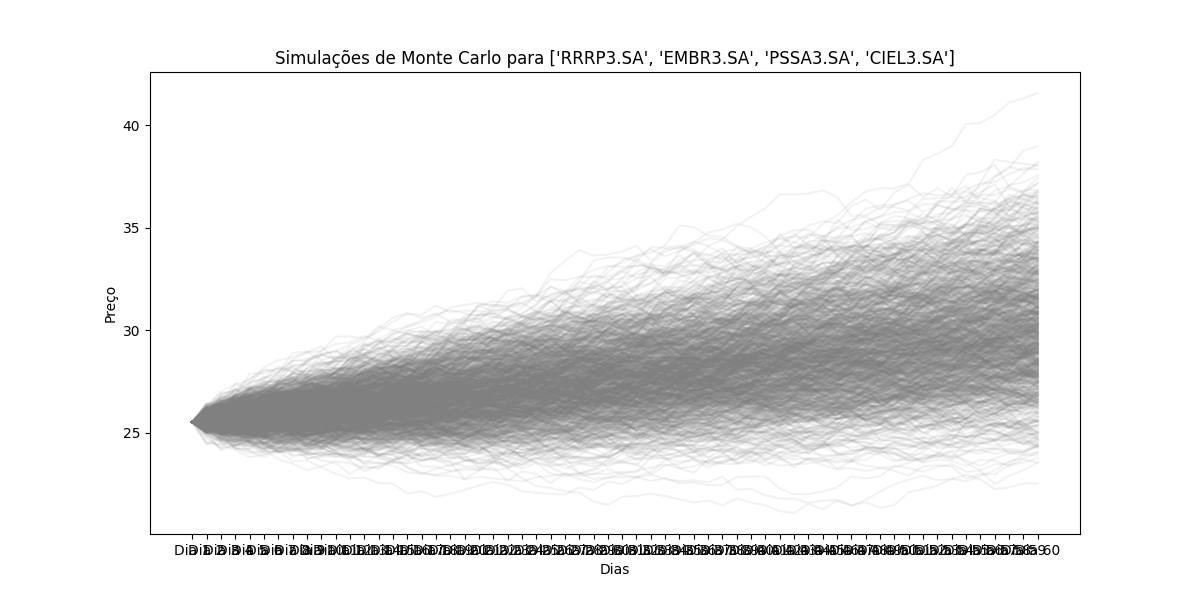
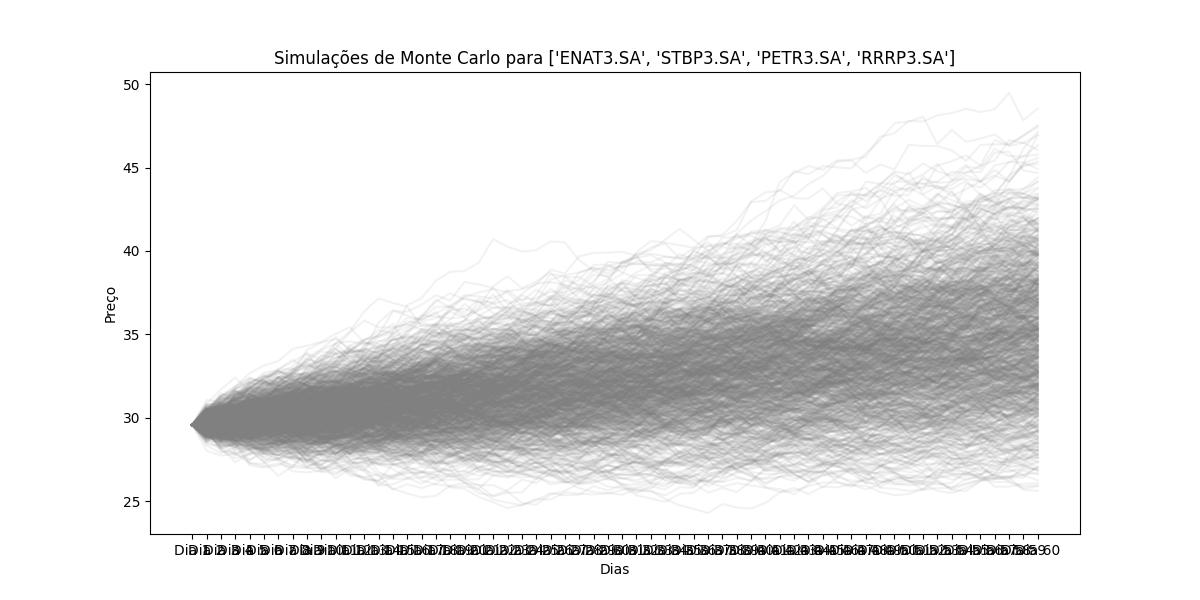
Inserido código de Backtesting gráfico

diff --git a/MonteCarloSimulationV2.py b/MonteCarloSimulationV2.py
@@ -1,0 +1,70 @@
+#!pip install yfinance
+
+import yfinance as yf
+import numpy as np
+import matplotlib.pyplot as plt
+import pandas as pd
+
+# Função para buscar dados históricos do yfinance
+def fetch_historical_data(ticker, inicio_dados, final_dados):
+    stock_data = yf.download(ticker, start=inicio_dados, end=final_dados)['Close'].mean(axis=1)
+    return stock_data
+
+# Função para prever futuras contagens usando o método de Monte Carlo
+def monte_carlo_prediction(prices, num_simulations=1000, num_days=90):
+    log_returns = np.log(1 + prices.pct_change())
+    mean_return = log_returns.mean()
+    std_return = log_returns.std()
+
+    simulations = []
+
+    for _ in range(num_simulations):
+        simulation_prices = []
+        last_price = prices.iloc[-1]
+
+        for _ in range(num_days):
+            next_price = last_price * np.exp(mean_return + std_return * np.random.normal())
+            simulation_prices.append(next_price)
+            last_price = next_price
+
+        simulations.append(simulation_prices)
+
+    return simulations
+
+def main(ticker, inicio_dados, final_dados):
+
+    # Buscar dados históricos
+    historical_prices = fetch_historical_data(ticker, inicio_dados, final_dados)
+
+    # Realizar previsões usando o método de Monte Carlo
+    num_simulations = 1000
+    num_days = 60
+    predicted_prices = monte_carlo_prediction(historical_prices, num_simulations, num_days)
+
+    # Plotar os dados históricos e as previsões
+    plt.figure(figsize=(14, 7))
+    plt.plot(historical_prices.index, historical_prices, label='Histórico de Preços')
+
+    # Adicionar previsões ao gráfico
+    last_date = historical_prices.index[-1]
+    future_dates = pd.date_range(start=last_date, periods=num_days+1, inclusive='right')
+
+    for simulation in predicted_prices:
+        plt.plot(future_dates, simulation, color='red', alpha=0.01)
+
+    plt.title(f"Simulação de Monte Carlo para {ticker} - Próximos {num_days} dias")
+    plt.xlabel("Data")
+    plt.ylabel("Preço de Fechamento")
+    plt.legend()
+    plt.show()
+    
+if __name__ == "__main__":
+    
+    # Configurações iniciais
+    ticker = ['EMBR3.SA', 'PETR4.SA']  # Substitua pelo ticker desejado
+    inicio_dados = '2024-01-01'
+    final_dados = '2024-05-01'
+    main(ticker, inicio_dados, final_dados)
+    
+    
+    

diff --git a/backtesting_grafico.py b/backtesting_grafico.py
@@ -1,0 +1,67 @@
+import pandas as pd
+import yfinance as yf
+import plotly.graph_objs as go
+from plotly.subplots import make_subplots
+
+# Função para obter dados históricos de preços
+def get_stock_data(ticker, start, end):
+    data = yf.download(ticker, start=start, end=end)
+    return data
+
+# Função para calcular médias móveis
+def calculate_moving_averages(data, short_window, long_window):
+    data['SMA_short'] = data['Close'].rolling(window=short_window, min_periods=1).mean()
+    data['SMA_long'] = data['Close'].rolling(window=long_window, min_periods=1).mean()
+    return data
+
+# Função para identificar tendências de alta
+def identify_uptrends(data):
+    data['Uptrend'] = data['SMA_short'] > data['SMA_long']
+    return data
+
+# Parâmetros do ativo e período
+#Ativos = ['CCRO3.SA', 'TECN3.SA', 'SCAR3.SA', 'ECOR3.SA']
+Ativos = ['SOMA3.SA', 'AZUL4.SA', 'LWSA3.SA', 'IGTI11.SA']
+ticker = Ativos[3]
+start_date = '2023-02-01'
+end_date = '2023-09-01'
+short_window = 9
+long_window = 21
+
+# Obter dados do ativo
+stock_data = get_stock_data(ticker, start_date, end_date)
+
+# Calcular médias móveis
+stock_data = calculate_moving_averages(stock_data, short_window, long_window)
+
+# Identificar tendências de alta
+stock_data = identify_uptrends(stock_data)
+
+# Criar gráfico dinâmico
+fig = make_subplots(rows=1, cols=1, shared_xaxes=True)
+
+# Adicionar trace para o preço de fechamento
+fig.add_trace(go.Scatter(x=stock_data.index, y=stock_data['Close'], mode='lines', name='Preço de Fechamento', line=dict(color='black')), row=1, col=1)
+
+# Adicionar trace para SMA de curto prazo
+fig.add_trace(go.Scatter(x=stock_data.index, y=stock_data['SMA_short'], mode='lines', name=f'SMA {short_window} Dias', line=dict(color='blue')), row=1, col=1)
+
+# Adicionar trace para SMA de longo prazo
+fig.add_trace(go.Scatter(x=stock_data.index, y=stock_data['SMA_long'], mode='lines', name=f'SMA {long_window} Dias', line=dict(color='red')), row=1, col=1)
+
+# Adicionar área sombreada para a tendência de alta
+fig.add_trace(go.Scatter(x=stock_data.index, y=stock_data['Close'], mode='lines', name='Tendência de Alta', line=dict(color='green', width=0), fill='tozeroy', fillcolor='rgba(0, 255, 0, 0.3)', showlegend=True, opacity=0.3), row=1, col=1)
+
+# Atualizar layout do gráfico
+fig.update_layout(
+    title=f'Tendência de Alta para {ticker}',
+    xaxis_title='Data',
+    yaxis_title='Preço',
+    legend_title='Legenda',
+    hovermode='x'
+)
+
+# Mostrar gráfico
+fig.show()
+
+

diff --git a/chamar_classe_monte_carlo_simulacao.py b/chamar_classe_monte_carlo_simulacao.py
@@ -2,28 +2,34 @@
 import lista_ativos_setores
 import carteira_aleatoria_otima_orientado_objeto
 import MonteCarloSimulationCarteiraOB
+import MonteCarloSimulationV2
 
-# Intervalo de dados e retorno acumulado desejando
-inicio_dados = '2024-01-01'
-final_dados = '2024-06-01'
-valor_desejado = 1.10
+def main(inicio_dados, final_dados, valor_desejado):
+    # Acessar a lista de ativos e escolher a carteira otimizada    
+    lista_ativos = lista_ativos_setores.lista_ibov
+    portfolio = carteira_aleatoria_otima_orientado_objeto.PortfolioOptimization(lista_ativos, inicio_dados, final_dados)
+    carteira_vencedora = portfolio.otimizar_carteira(valor_desejado)
 
-# Acessar a lista de ativos e escolher a carteira otimizada    
-lista_ativos = lista_ativos_setores.lista_atual_ibxx_02
-portfolio = carteira_aleatoria_otima_orientado_objeto.PortfolioOptimization(lista_ativos, inicio_dados, final_dados)
-carteira_vencedora = portfolio.otimizar_carteira(valor_desejado)
+    # Chamar as classes MonteCarloSimulation
+    ticker =  carteira_vencedora
+    num_simulacoes = 1000
+    num_dias = 60
+    MonteCarloSimulationCarteiraOB.main(ticker, num_simulacoes, num_dias, inicio_dados, final_dados)
+    MonteCarloSimulationV2.main(ticker, inicio_dados, final_dados)
 
-# Chamar a classe MonteCarloSimulationCarteiraOB
-ticker =  carteira_vencedora
-num_simulacoes = 1000
-num_dias = 60
-MonteCarloSimulationCarteiraOB.main(ticker, num_simulacoes, num_dias, inicio_dados, final_dados)
-# retorno_acumulado = portfolio.calcular_retorno_acumulado(carteira_vencedora[1])
-print(f"Carteira vencedora = {carteira_vencedora}")
-# print(f"Retorno Acumulado da Carteira: {retorno_acumulado}")
+    # retorno_acumulado = portfolio.calcular_retorno_acumulado(carteira_vencedora[1])
+    print(f"Carteira vencedora = {carteira_vencedora}")
+    # print(f"Retorno Acumulado da Carteira: {retorno_acumulado}")
 
-# Resultados da Predição:
-# Probabilidade do preço futuro estar acima do preço atual após 60 dias: 79.10%
-# Carteira vencedora: ['TEND3.SA', 'VIVA3.SA', 'SMFT3.SA', 'ECOR3.SA', 'BRKM5.SA', 'CYRE3.SA', 'BPAC11.SA', 'LREN3.SA', 'CSNA3.SA', 'BBDC3.SA']
-
+    # Resultados da Predição:
+    # Probabilidade do preço futuro estar acima do preço atual após 60 dias: 92.50%
+    # Carteira vencedora = ['ENAT3.SA', 'STBP3.SA', 'PETR3.SA', 'RRRP3.SA']
+    pass
+    
+if __name__ == "__main__":
+    # Intervalo de dados e retorno acumulado desejando
+    inicio_dados = '2023-02-05'
+    final_dados = '2023-06-05'
+    valor_desejado = 1.24
+    main(inicio_dados, final_dados, valor_desejado)
 

diff --git a/lista_ativos_setores.py b/lista_ativos_setores.py
@@ -5,8 +5,9 @@ import pandas as pd
 def main():
     
     # URL da página
-    url = 'https://www.dadosdemercado.com.br/b3/ibxx'
-    #url = 'https://www.dadosdemercado.com.br/acoes'
+    # url = 'https://www.dadosdemercado.com.br/b3/ibxx'
+    # url = 'https://www.dadosdemercado.com.br/acoes'
+    url = 'https://www.dadosdemercado.com.br/b3/ibov'
 
     # Faz a solicitação HTTP para obter o conteúdo da página
     response = requests.get(url)
@@ -26,7 +27,7 @@ def main():
         # Converte a tabela HTML para um DataFrame do pandas
         df = pd.read_html(first_table_html)[0]
         #lista_ativos = df['Código'].copy()
-        lista_ativos = df['Ticker'].copy()
+        lista_ativos = df['Código'].copy()
         lista_ativos = lista_ativos.to_list()
         # Exibe o DataFrame
         #print("Primeira Tabela:")
@@ -48,6 +49,20 @@ lista_atual_ibxx_02 = ['VALE3.SA', 'PETR4.SA', 'ITUB4.SA', 'PETR3.SA', 'BBAS3.SA
                     'SMTO3.SA', 'VAMO3.SA', 'CSMG3.SA', 'USIM5.SA', 'MRFG3.SA', 'AURE3.SA', 'GMAT3.SA', 'FLRY3.SA', 'SLCE3.SA', 'YDUQ3.SA',
                     'COGN3.SA', 'RAIZ4.SA', 'ARZZ3.SA', 'AZUL4.SA', 'SOMA3.SA', 'DIRR3.SA', 'VIVA3.SA', 'IRBR3.SA', 'MRVE3.SA', 'ECOR3.SA',
                     'DXCO3.SA', 'LWSA3.SA', 'BEEF3.SA', 'ALPA4.SA', 'TEND3.SA', 'EZTC3.SA', 'PETZ3.SA', 'PCAR3.SA', 'CVCB3.SA', 'MOVI3.SA']
+
+
+lista_ibxl = ['VALE3.SA', 'PETR4.SA', 'ITUB4.SA', 'PETR3.SA', 'BBAS3.SA', 'ELET3.SA', 'BBDC4.SA', 'B3SA3.SA', 'WEGE3.SA', 'ITSA4.SA', 'ABEV3.SA', 'BPAC11.SA', 'RENT3.SA', 'EQTL3.SA', 'JBSS3.SA', 'RADL3.SA', 'SUZB3.SA', 'PRIO3.SA', 'RDOR3.SA', 'EMBR3.SA', 'SBSP3.SA', 'RAIL3.SA', 'UGPA3.SA', 'VBBR3.SA', 'BBSE3.SA', 'GGBR4.SA', 'CMIG4.SA', 'HAPV3.SA', 'ASAI3.SA', 'KLBN11.SA', 'CPLE6.SA', 'BRFS3.SA', 'CSAN3.SA', 'TOTS3.SA', 'TIMS3.SA', 'NTCO3.SA', 'LREN3.SA', 'HYPE3.SA', 'CSNA3.SA', 'RRRP3.SA', 'CIEL3.SA', 'MULT3.SA', 'CYRE3.SA', 'MGLU3.SA', 'USIM5.SA', 'ARZZ3.SA', 'AZUL4.SA', 'SOMA3.SA', 'MRVE3.SA']
+
+lista_ibov = ['VALE3.SA', 'PETR4.SA', 'ITUB4.SA', 'PETR3.SA', 'BBAS3.SA', 'ELET3.SA', 'BBDC4.SA', 'B3SA3.SA', 'WEGE3.SA',
+              'ITSA4.SA', 'ABEV3.SA', 'BPAC11.SA', 'RENT3.SA', 'EQTL3.SA', 'JBSS3.SA', 'RADL3.SA', 'SUZB3.SA', 'PRIO3.SA',
+              'RDOR3.SA', 'EMBR3.SA', 'SBSP3.SA', 'RAIL3.SA', 'UGPA3.SA', 'VBBR3.SA', 'BBSE3.SA', 'GGBR4.SA', 'ENEV3.SA',
+              'CMIG4.SA', 'VIVT3.SA', 'HAPV3.SA', 'BBDC3.SA', 'ASAI3.SA', 'KLBN11.SA', 'CPLE6.SA', 'BRFS3.SA', 'ENGI11.SA',
+              'CSAN3.SA', 'TOTS3.SA', 'TIMS3.SA', 'NTCO3.SA', 'LREN3.SA', 'CCRO3.SA', 'HYPE3.SA', 'EGIE3.SA', 'ELET6.SA',
+              'TRPL4.SA', 'SANB11.SA', 'CSNA3.SA', 'TAEE11.SA', 'GOAU4.SA', 'CPFE3.SA', 'RRRP3.SA', 'CIEL3.SA', 'MULT3.SA',
+              'CMIN3.SA', 'RECV3.SA', 'CRFB3.SA', 'CYRE3.SA', 'BRKM5.SA', 'BRAP4.SA', 'IGTI11.SA', 'MGLU3.SA', 'SMTO3.SA',
+              'VAMO3.SA', 'MRFG3.SA', 'USIM5.SA', 'FLRY3.SA', 'SLCE3.SA', 'YDUQ3.SA', 'RAIZ4.SA', 'COGN3.SA', 'ARZZ3.SA',
+              'AZUL4.SA', 'SOMA3.SA', 'VIVA3.SA', 'IRBR3.SA', 'MRVE3.SA', 'DXCO3.SA', 'LWSA3.SA', 'BEEF3.SA', 'ALPA4.SA',
+              'EZTC3.SA', 'PETZ3.SA', 'PCAR3.SA', 'CVCB3.SA']
 
 if __name__ == "__main__":
     lista_atual_ibxx_01 = main()

diff --git a/carteira_aleatoria_otima_orientado_objeto.py b/carteira_aleatoria_otima_orientado_objeto.py
@@ -20,7 +20,7 @@ class PortfolioOptimization:
         retornos = dados.pct_change().dropna()
         return retornos
 
-    def simular_carteiras(self, num_carteiras=1000, num_ativos=10):
+    def simular_carteiras(self, num_carteiras=100, num_ativos=4):
         """Simula carteiras aleatórias com os ativos disponíveis."""
         carteiras = []
         for _ in range(num_carteiras):